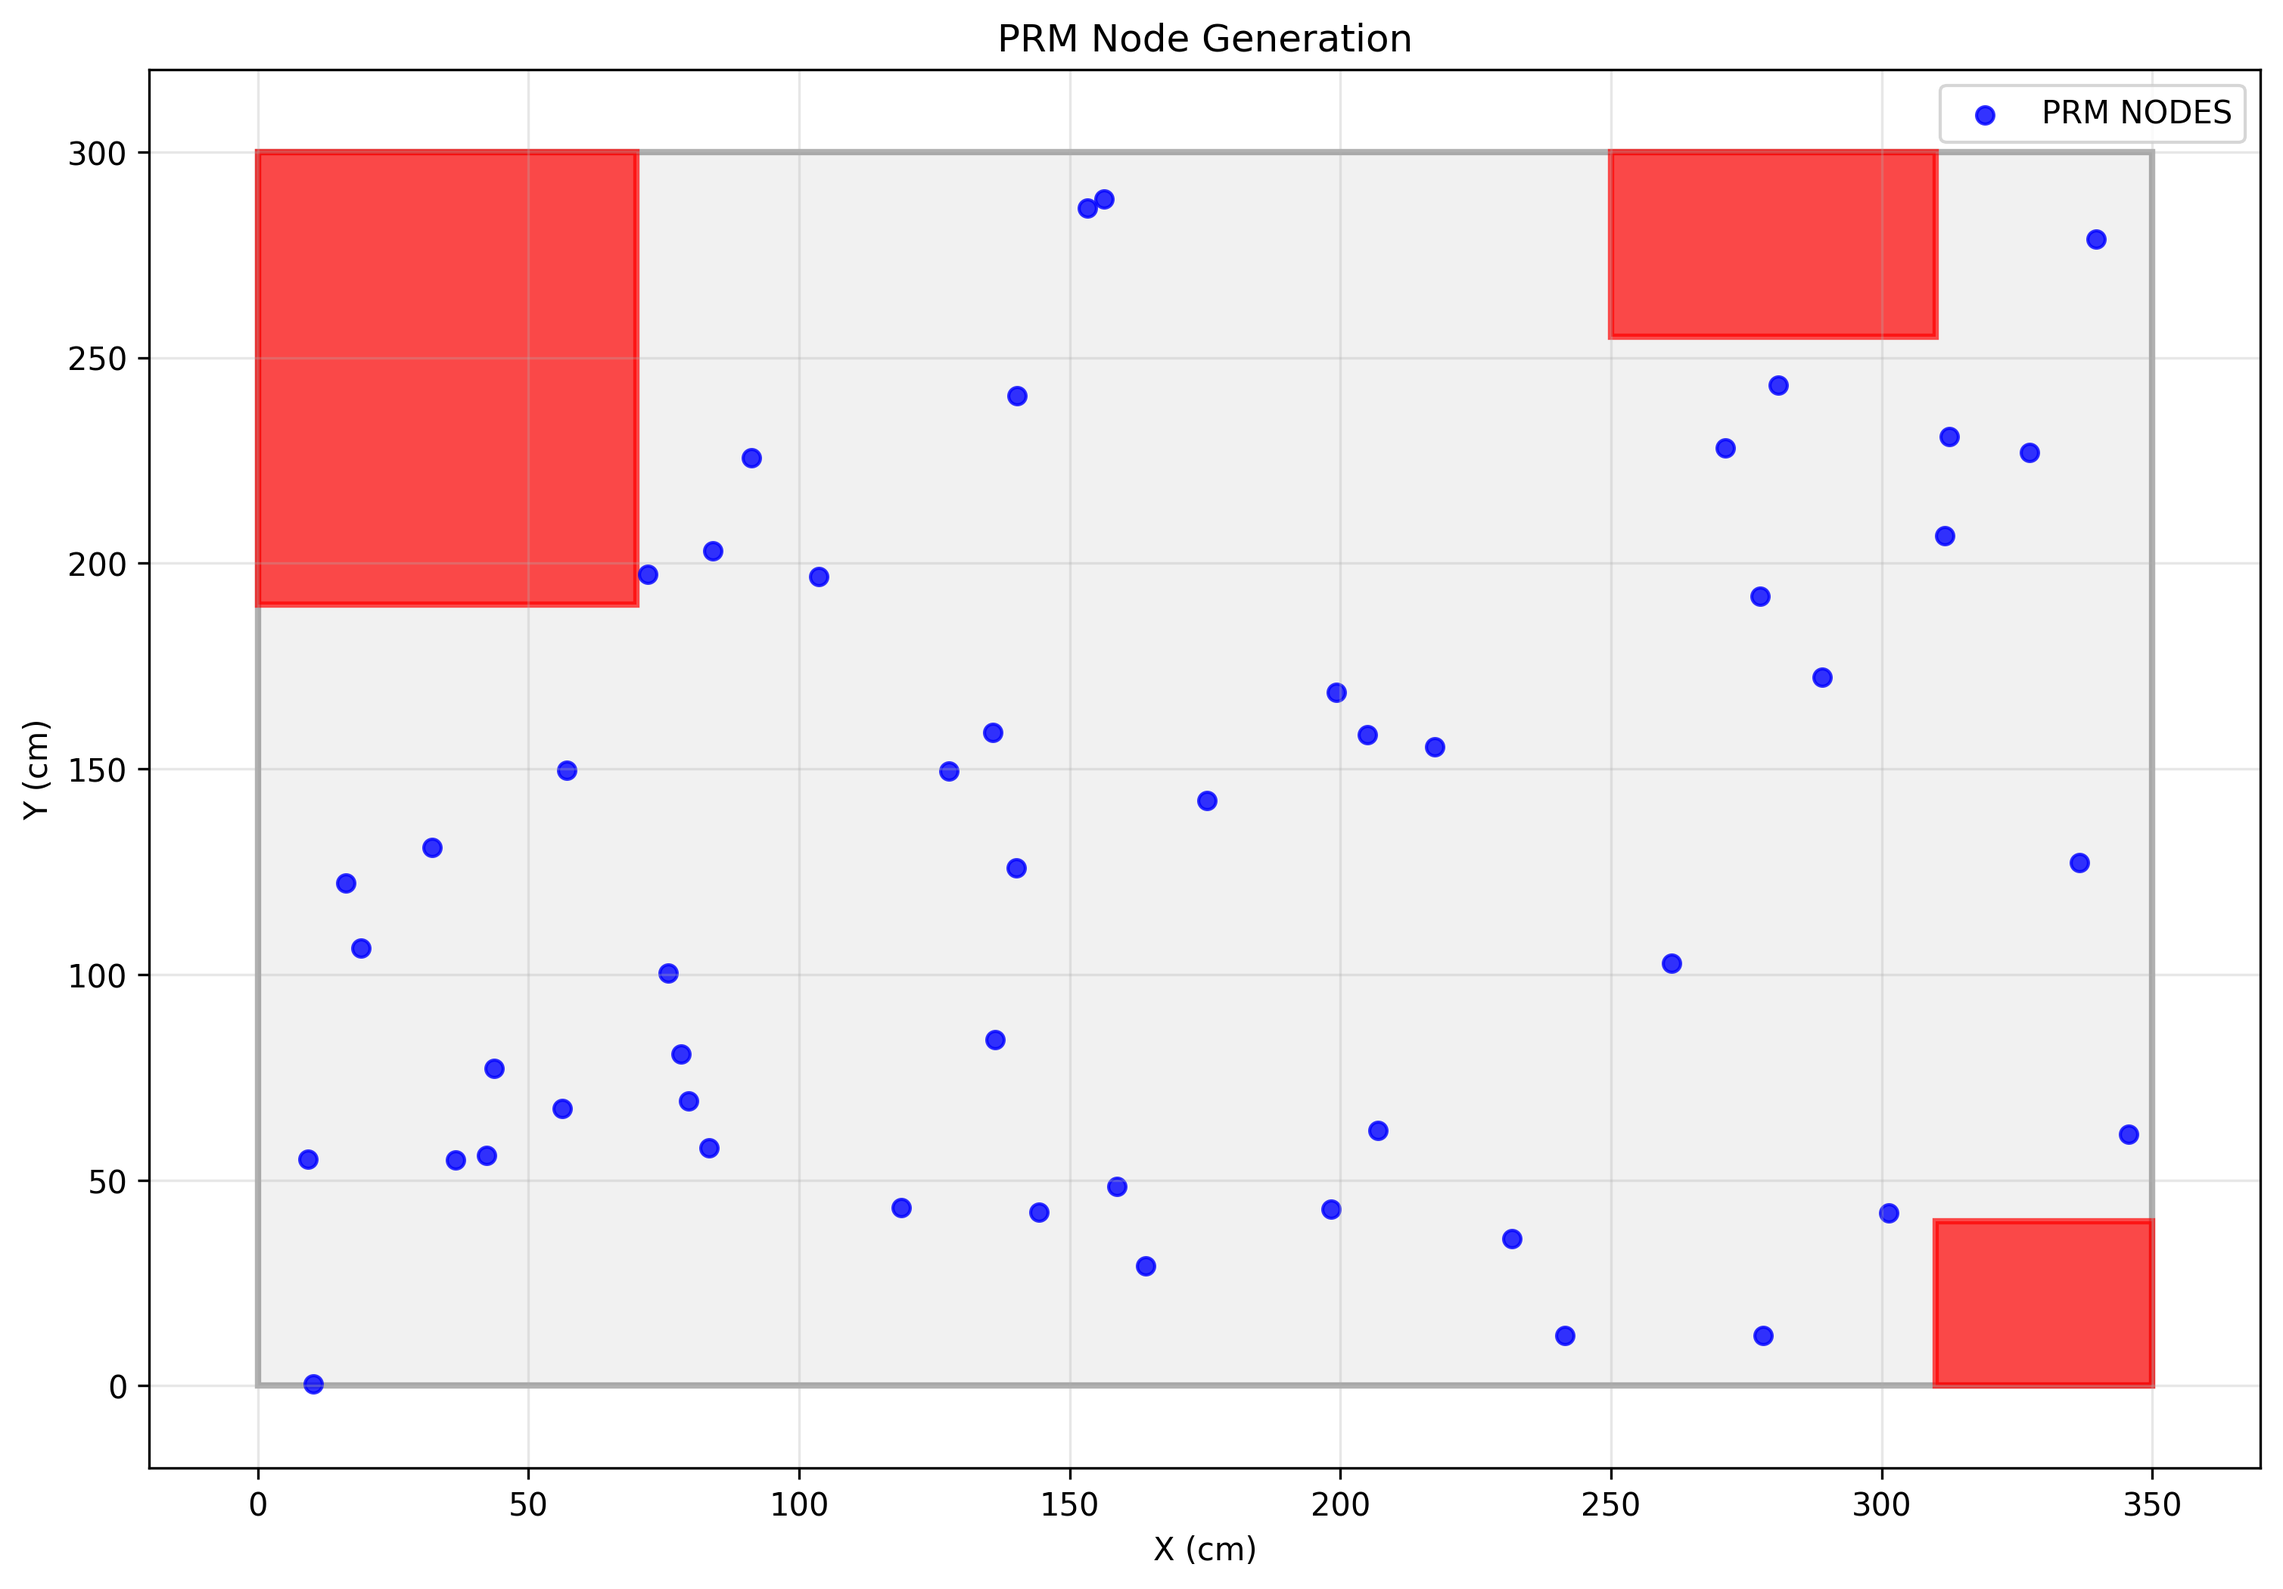
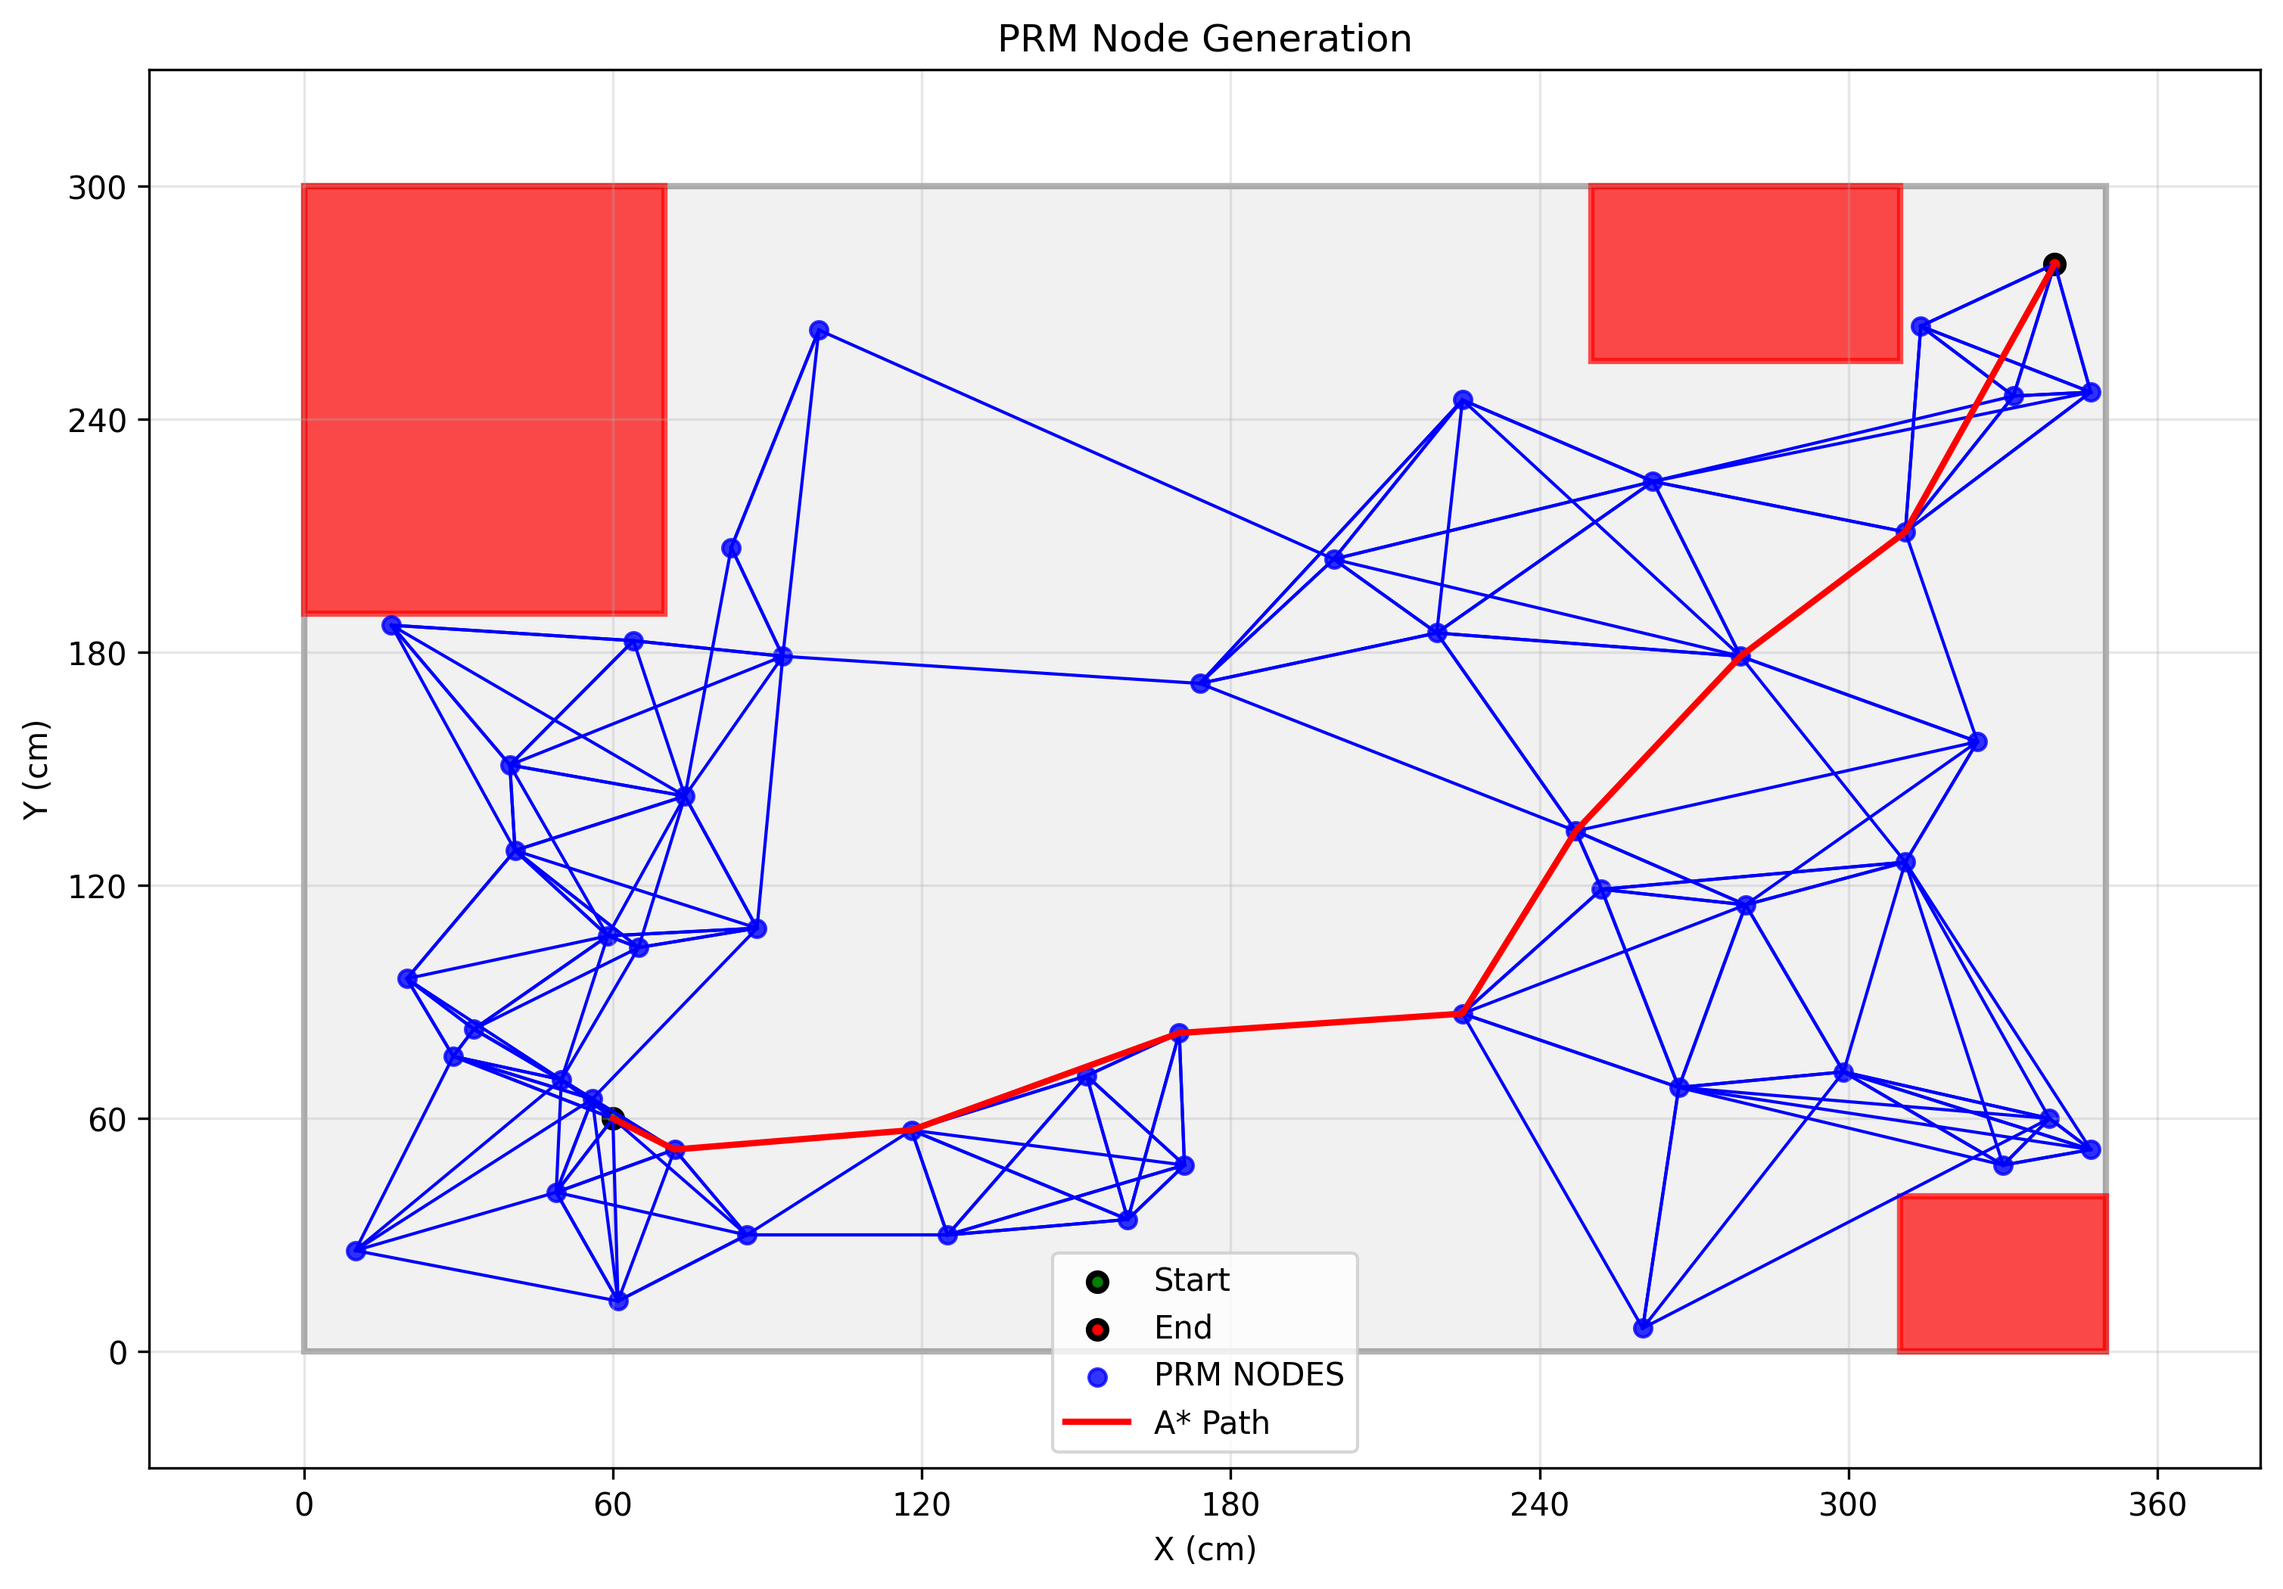
Path planner

diff --git a/path_planner.py b/path_planner.py
@@ -1,6 +1,11 @@
 import random
 import matplotlib.pyplot as plt
 import matplotlib.patches as patches
+import math
+import numpy as np
+from queue import PriorityQueue
+from matplotlib.ticker import MultipleLocator
+
 
 
 
@@ -22,19 +27,138 @@ class PathPlanner:
                             return False
         return True
 
-    def generate_prm_nodes(self,n_nodes):
+    def generate_prm_nodes(self,n_nodes,start,end):
         nodes = []
 
+        nodes.append(start)
+
         while len(nodes) < n_nodes:
-            x = random.uniform(self.room_bounds["x_min"],self.room_bounds["x_max"])
-            y = random.uniform(self.room_bounds["y_min"],self.room_bounds["y_max"])
+            x = int(random.uniform(self.room_bounds["x_min"],self.room_bounds["x_max"]))
+            y = int(random.uniform(self.room_bounds["y_min"],self.room_bounds["y_max"]))
 
             if ( self.is_point_collision_free(x,y)):
                 nodes.append((x,y))
 
+        nodes.append(end)
+
         return nodes
-    
-    def generate_plot(self,nodes):
+
+    def build_roadmap(self,nodes,k_near):
+      connections = []
+
+      for i,node in enumerate(nodes):
+        distances = []
+
+        for j,other_node in enumerate(nodes):
+            if i!=j:
+              distance = ((node[0] - other_node[0])**2 + (node[1] - other_node[1])**2)**0.5
+              distances.append((distance,j))
+
+        distances.sort(key=lambda el:el[0])
+        nearest = distances[:k_near]
+
+        for dist,j in nearest:
+          if self.is_collision_free(nodes[i],nodes[j]):
+            connections.append((i,j))
+
+      return connections
+
+    def get_neighbours(self,current,connections,nodes):
+      # return [ nodes[con[1]] for con in connections if nodes[con[0]] == current]
+      neighbors = set()
+      for con in connections:
+          if nodes[con[0]] == current:
+              neighbors.add(nodes[con[1]])
+          elif nodes[con[1]] == current:  # CHECK BOTH DIRECTIONS!
+              neighbors.add(nodes[con[0]])
+      return list(neighbors)
+
+    def euc_distance(self,node,other_node):
+      distance = ((node[0] - other_node[0])**2 + (node[1] - other_node[1])**2)**0.5
+      return distance
+
+
+    def a_star_search(self,start,connections,goal,nodes):
+      frontier = PriorityQueue()
+      frontier.put((0,start))
+      came_from = {}
+      cost_so_far = {}
+      came_from[start] = None
+      cost_so_far[start] = 0
+
+      while not frontier.empty():
+        current_tuple = frontier.get()
+        current = current_tuple[1]
+        if current == goal:
+          break
+
+        for next in self.get_neighbours(current,connections,nodes):
+          new_cost = cost_so_far[current] + self.euc_distance(current,next)
+
+          if next not in cost_so_far or new_cost < cost_so_far[next]:
+            cost_so_far[next] = new_cost
+            priority = new_cost + self.euc_distance(goal,next)
+            frontier.put((priority,next))
+            came_from[next] = current
+
+      if goal not in came_from:
+        print("No path found - Start/end node is disconnected....")
+        return []
+
+      path = [goal]
+      i = goal
+
+      while i!=start:
+        path.append(came_from[i])
+
+        i = came_from[i]
+
+      return path[::-1]
+
+
+    def is_collision_free(self,pt1,pt2):
+      for obstacle in self.obstacles:
+        x_start = obstacle["x_start"]
+        x_end = obstacle["x_end"]
+        y_start = obstacle["y_start"]
+        y_end = obstacle["y_end"]
+
+        points = [(x_start,y_start),(x_start,y_end),(x_end,y_end),(x_end,y_start)]
+
+        i = 0
+
+        while(i < 4):
+          j = (i+1)%4
+          if (self.is_line_collision(pt1,pt2,points[i],points[j])):
+            return False
+          i += 1
+
+
+      return True
+
+    def within_range(self,t):
+      return 0 <= t <= 1
+
+    def is_line_collision(self,pt1,pt2,pt3,pt4):
+      A1 = pt2[0] - pt1[0]
+      A2 = pt2[1] - pt1[1]
+      B1 = pt4[0] - pt3[0]
+      B2 = pt4[1] - pt3[1]
+      C1 = pt3[0] - pt1[0]
+      C2 = pt3[1] - pt1[1]
+
+      if(A1*B2 - A2*B1 == 0):
+        return False
+
+      t1 = (B2*C1 - B1*C2)/(A1*B2 - A2*B1)
+      t2 = (A2*C1 - A1*C2)/(A1*B2 - A2*B1)
+
+      if(self.within_range(t1) and self.within_range(t2)):
+        return True
+
+      return False
+
+    def generate_plot(self,nodes,connections,path):
         fig,ax = plt.subplots(figsize=(12,8))
 
         room_rect = patches.Rectangle((
@@ -64,18 +188,45 @@ class PathPlanner:
         x_coords = [node[0] for node in nodes]
         y_coords = [node[1] for node in nodes]
 
-        ax.scatter(x_coords,y_coords,c='blue',s=30,alpha=0.8,label="PRM NODES")
+# Plot start and end points with outlines
+        ax.scatter(x_coords[0], y_coords[0], c='g', s=30,edgecolor='black', linewidth=2, label="Start")
+        ax.scatter(x_coords[-1], y_coords[-1], c='r', s=30, edgecolor='black', linewidth=2, label="End")
 
-        ax.set_xlim(self.room_bounds['x_min']-20,self.room_bounds['x_max']+20)
-        ax.set_ylim(self.room_bounds['y_min']-20,self.room_bounds['y_max']+20)
+        # Plot other PRM nodes
+        ax.scatter(x_coords[1:-1], y_coords[1:-1], c='blue', s=30, alpha=0.8, label="PRM NODES")
+
+        for connection in connections:
+          i,j = connection
+          x_points = [nodes[i][0],nodes[j][0]]
+          y_points = [nodes[i][1],nodes[j][1]]
+
+          ax.plot(np.array(x_points),np.array(y_points),'b-',linewidth=1)
+
+        x_path_points = [pnt[0] for pnt in path]
+        y_path_points = [pnt[1] for pnt in path]
+
+        ax.plot(x_path_points, y_path_points, 'r-', linewidth=2, label="A* Path")
+
+        # ax.plot(np.array(x_points),np.array(y_points),'b-',linewidth=1)
+
+
+
+        ax.set_xlim(self.room_bounds['x_min']-30,self.room_bounds['x_max']+30)
+        ax.set_ylim(self.room_bounds['y_min']-30,self.room_bounds['y_max']+30)
         ax.set_xlabel("X (cm)")
         ax.set_ylabel("Y (cm)")
         ax.set_title("PRM Node Generation")
         ax.legend()
+
+        #Set major ticks to 60cm intervals
+        ax.xaxis.set_major_locator(MultipleLocator(60))
+        ax.yaxis.set_major_locator(MultipleLocator(60))
         ax.grid(True, alpha=0.3)
         # plt.show()
         plt.savefig("PRM NODES.png",dpi=300,bbox_inches="tight")
-      
+
+
+
 
 
 def main(args=None):
@@ -116,8 +267,20 @@ def main(args=None):
     obstacles = [obstacle1,obstacle2,obstacle3]
 
     path_planner = PathPlanner(room_x_start,room_x_end,room_y_start,room_y_end,obstacles)
-    nodes = path_planner.generate_prm_nodes(50)
-    path_planner.generate_plot(nodes)
+    start_node = (60,60)
+    end_node =(340,280)
+    nodes = path_planner.generate_prm_nodes(50,start_node,end_node)
+    connections = path_planner.build_roadmap(nodes,5)
+
+    print(nodes)
+    print(connections)
+
+    path = path_planner.a_star_search(start_node,connections,end_node,nodes)
+    print(path)
+
+    path_planner.generate_plot(nodes,connections,path)
+
+    # print(connections)
 
 if __name__ == "__main__":
     main()

diff --git a/robot_controller.py b/robot_controller.py
@@ -8,6 +8,7 @@ import math
 import RPi.GPIO as GPIO
 import matplotlib.pyplot as plt
 import numpy as np
+from path_planner import PathPlanner
 
 class RobotController:
     def __init__(self):
@@ -33,7 +34,7 @@ class RobotController:
         self.Kp_enc,self.Ki_enc,self.Kd_enc = [1.0,0.0,0.0]
         self.Kp_yaw,self.Ki_yaw,self.Kd_yaw = [500.0,0.0,0.0]
 
-        self.Kp_turn,self.Ki_turn,self.Kd_turn = [100.0,0.,35.]
+        self.Kp_turn,self.Ki_turn,self.Kd_turn = [300.0,0.,400.]
 
                 # Initialize GPIO (same as your motor_driver.py)
         self.IN1, self.IN2, self.IN3, self.IN4 = 17, 18, 22, 23
@@ -191,7 +192,7 @@ class RobotController:
 
          
 
-            if(err_angle < 0.064 ):
+            if( -0.017 <err_angle < 0.017 ):
                 print(f"Error: {err_angle} - Breaking.......")
                 break
 
@@ -210,6 +211,8 @@ class RobotController:
         left_speed = self.clip_speed(left_speed)
         right_speed = self.clip_speed(right_speed)
 
+       
+
         if left_speed > 0:
             GPIO.output(self.IN3,GPIO.HIGH)
             GPIO.output(self.IN4,GPIO.LOW)
@@ -226,8 +229,8 @@ class RobotController:
             GPIO.output(self.IN2,GPIO.HIGH)
             self.pwm_right.ChangeDutyCycle(right_speed)
         elif right_speed < 0:
-            GPIO.output(self.IN3,GPIO.HIGH)
-            GPIO.output(self.IN4,GPIO.LOW)
+            GPIO.output(self.IN1,GPIO.HIGH)
+            GPIO.output(self.IN2,GPIO.LOW)
             self.pwm_right.ChangeDutyCycle(abs(right_speed))
         else:
             self.pwm_right.ChangeDutyCycle(0)
@@ -325,7 +328,7 @@ class RobotController:
             if(err_dist<self.tol_d):
                 self.set_motor_speeds(0,0)
                 time.sleep(2)
-                LC = self.left_count - start_count_left    # Calculating again considering the intertia
+                LC = self.left_count - start_count_left    # Calculating again considering the inertia
                 RC = self.right_count - start_count_right
                 d = self.calculate_distance_covered(LC,RC)
                 self.x += d*math.cos(avg_yaw)
@@ -333,6 +336,21 @@ class RobotController:
                 self.trajectory.append((self.x,self.y))
                 break
             self.set_motor_speeds(speed_L,speed_R)
+
+    def follow_path(self,path):
+        for i in range(len(path)-1):
+            current = path[i]
+            next = path[i+1]
+
+            theta = math.atan2((next[1]-current[1]),(next[0]-current[0]))
+            angle = theta - self.yaw
+
+            # print(math.degrees(angle))
+            self.turn_by_angle(angle)
+            dist = ((next[0]-current[0])**2 + (next[1]-current[1])**2)**0.5
+            time.sleep(1)
+            self.forward_controller(dist)
+            time.sleep(1)
 
 
     def cleanup(self):
@@ -345,25 +363,57 @@ class RobotController:
 
 def main(args=None):
     try:
-        robot_controller = RobotController()
+        room_x_start = 0
+        room_x_end = 350
+
+        room_y_start = 0
+        room_y_end = 300
+
+
+        obstacle1 = {
+        "type": "rectangle",
+        "name": "wall",
+        "x_start": 310,
+        "x_end": 350,
+        "y_start": 0,
+        "y_end": 40
+        }
+
+        obstacle2 = {
+            "type":"rectangle",
+            "name":"table",
+            "x_start":0,
+            "x_end":70,
+            "y_start":190,
+            "y_end":300
+        }
+
+        obstacle3 = {
+            "type":"rectangle",
+            "name":"doormat",
+            "x_start":250,
+            "x_end":310,
+            "y_start":255,
+            "y_end":300
+        }
+
+        obstacles = [obstacle1,obstacle2,obstacle3]
+
+        path_planner = PathPlanner(room_x_start,room_x_end,room_y_start,room_y_end,obstacles)
+        start_node = (60,60)
+        end_node =(340,280)
+        nodes = path_planner.generate_prm_nodes(50,start_node,end_node)
+        connections = path_planner.build_roadmap(nodes,5)
+
+        path = path_planner.a_star_search(start_node,connections,end_node,nodes)
       
-        robot_controller.forward_controller(30)
-        robot_controller.turn_by_angle(90)
-        robot_controller.forward_controller(30)
-        robot_controller.turn_by_angle(90)
-        robot_controller.forward_controller(30)
-        robot_controller.turn_by_angle(90)
-        robot_controller.forward_controller(30)
-        robot_controller.turn_by_angle(90)
 
-        time.sleep(0.5)
-        print(robot_controller.yaw)
+        path_planner.generate_plot(nodes,connections,path)
 
-        print("Made a rectangle!!")
-
-       
-
-        # print("Plot has been made and saved.......")
+        #Robot Controller
+        robot_controller = RobotController()
+ 
+        robot_controller.follow_path(path)
             
 
     except KeyboardInterrupt:
